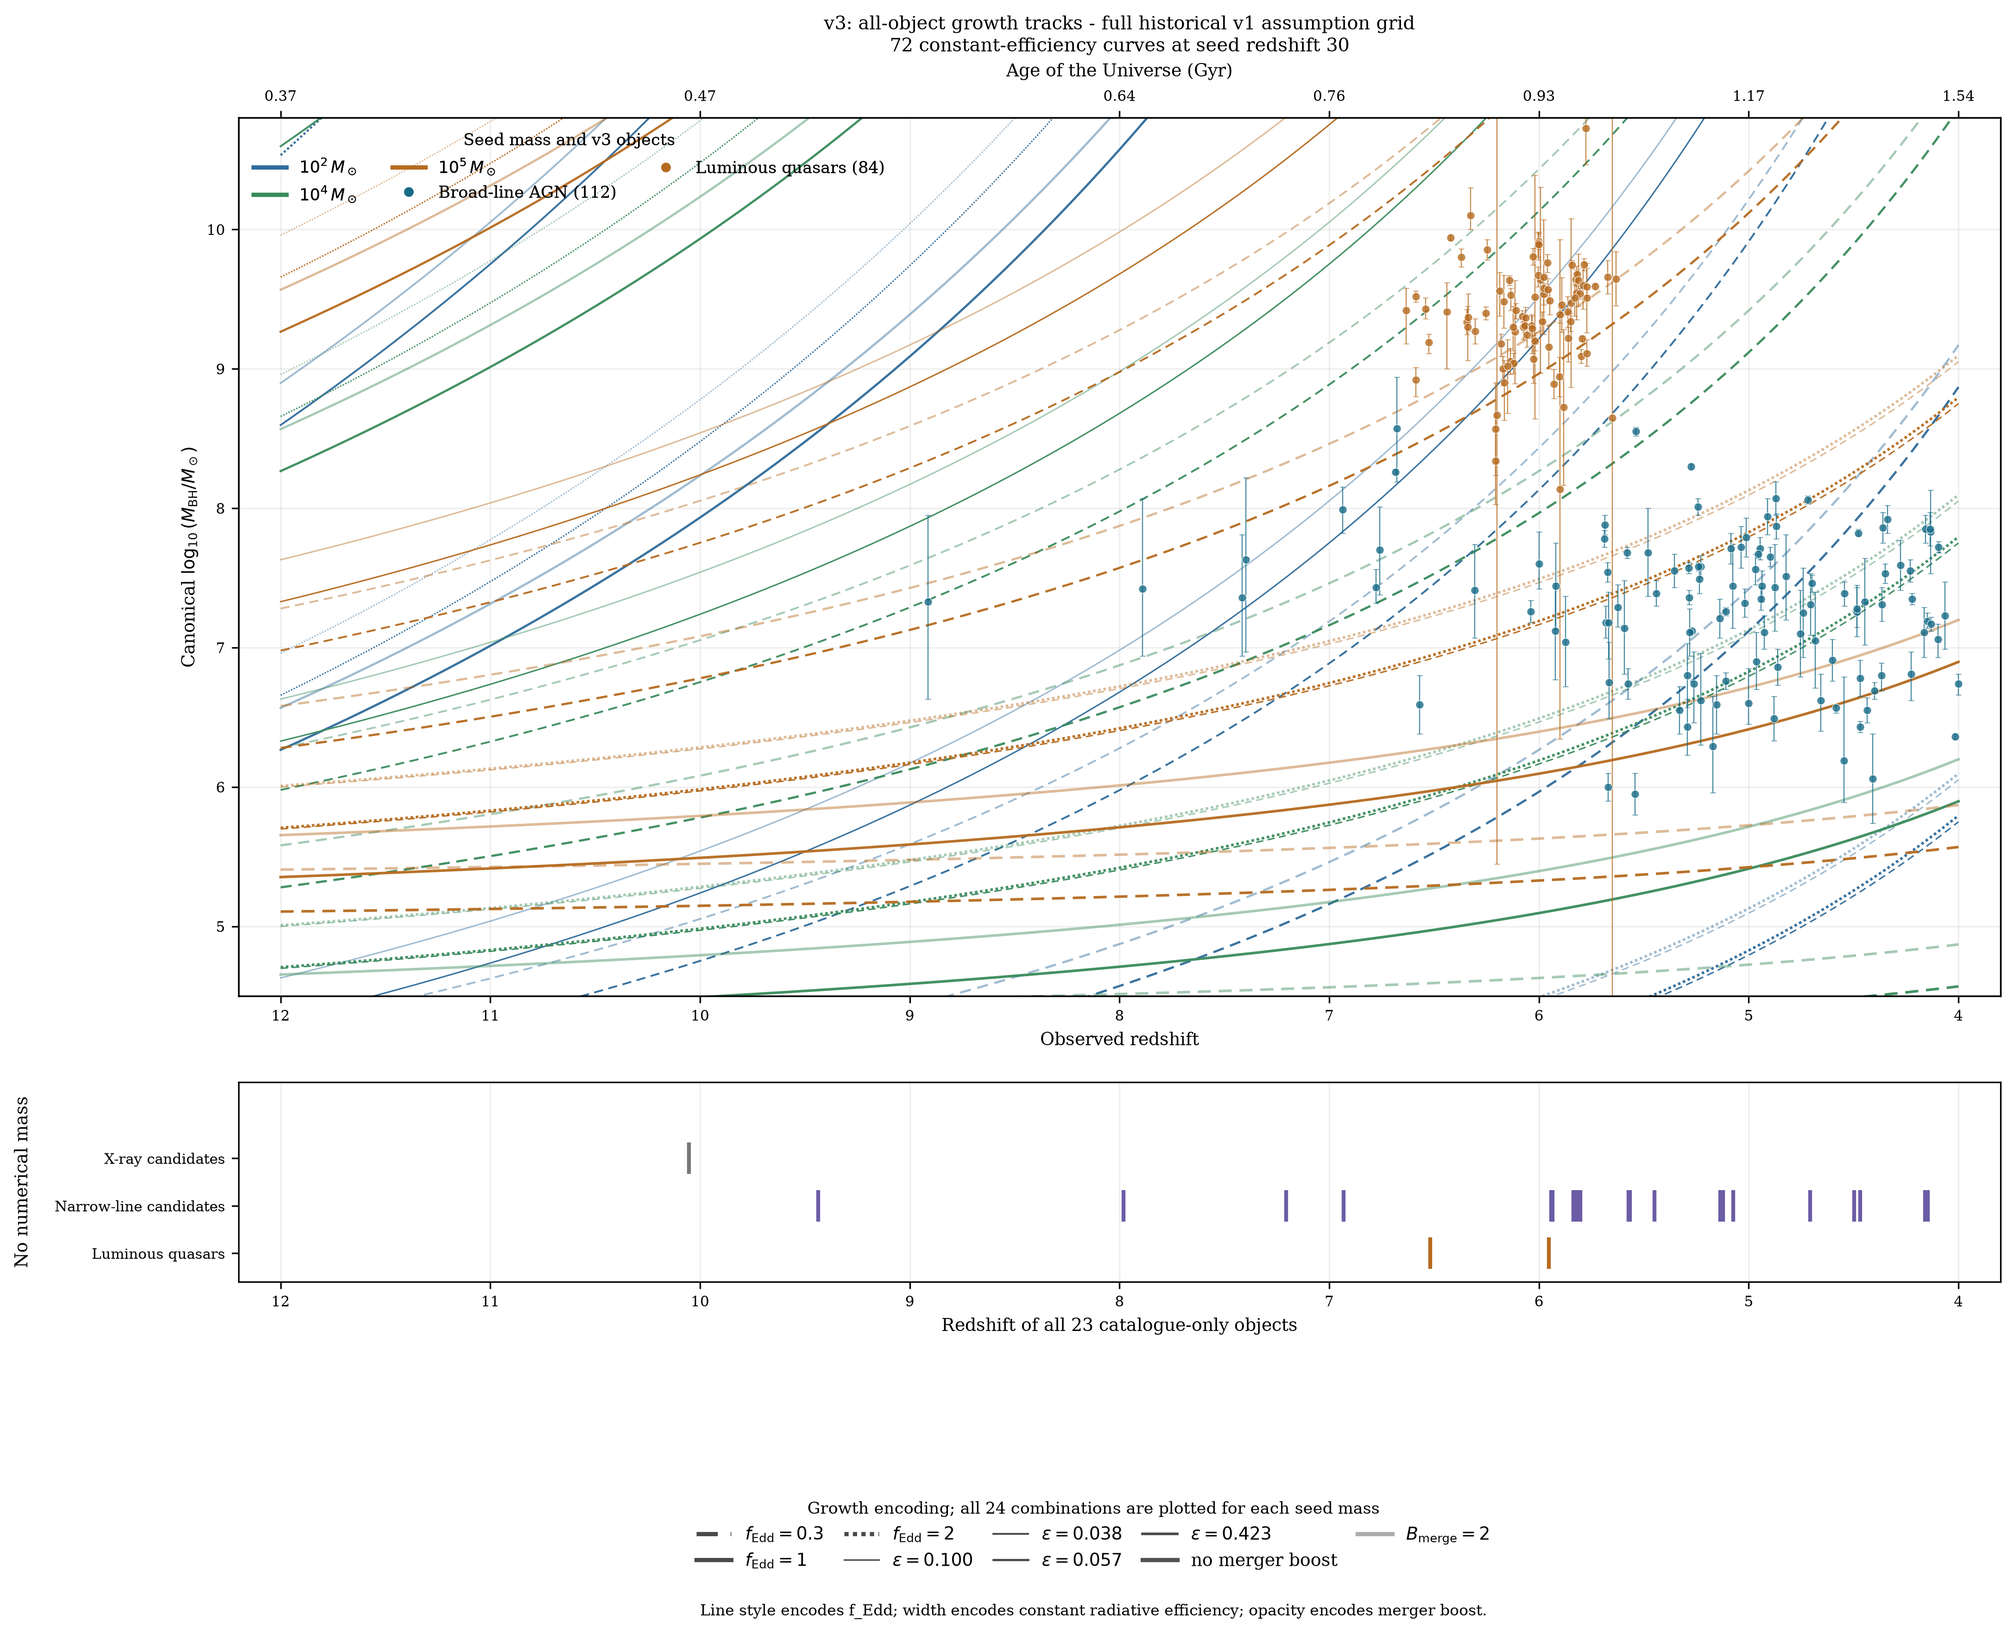
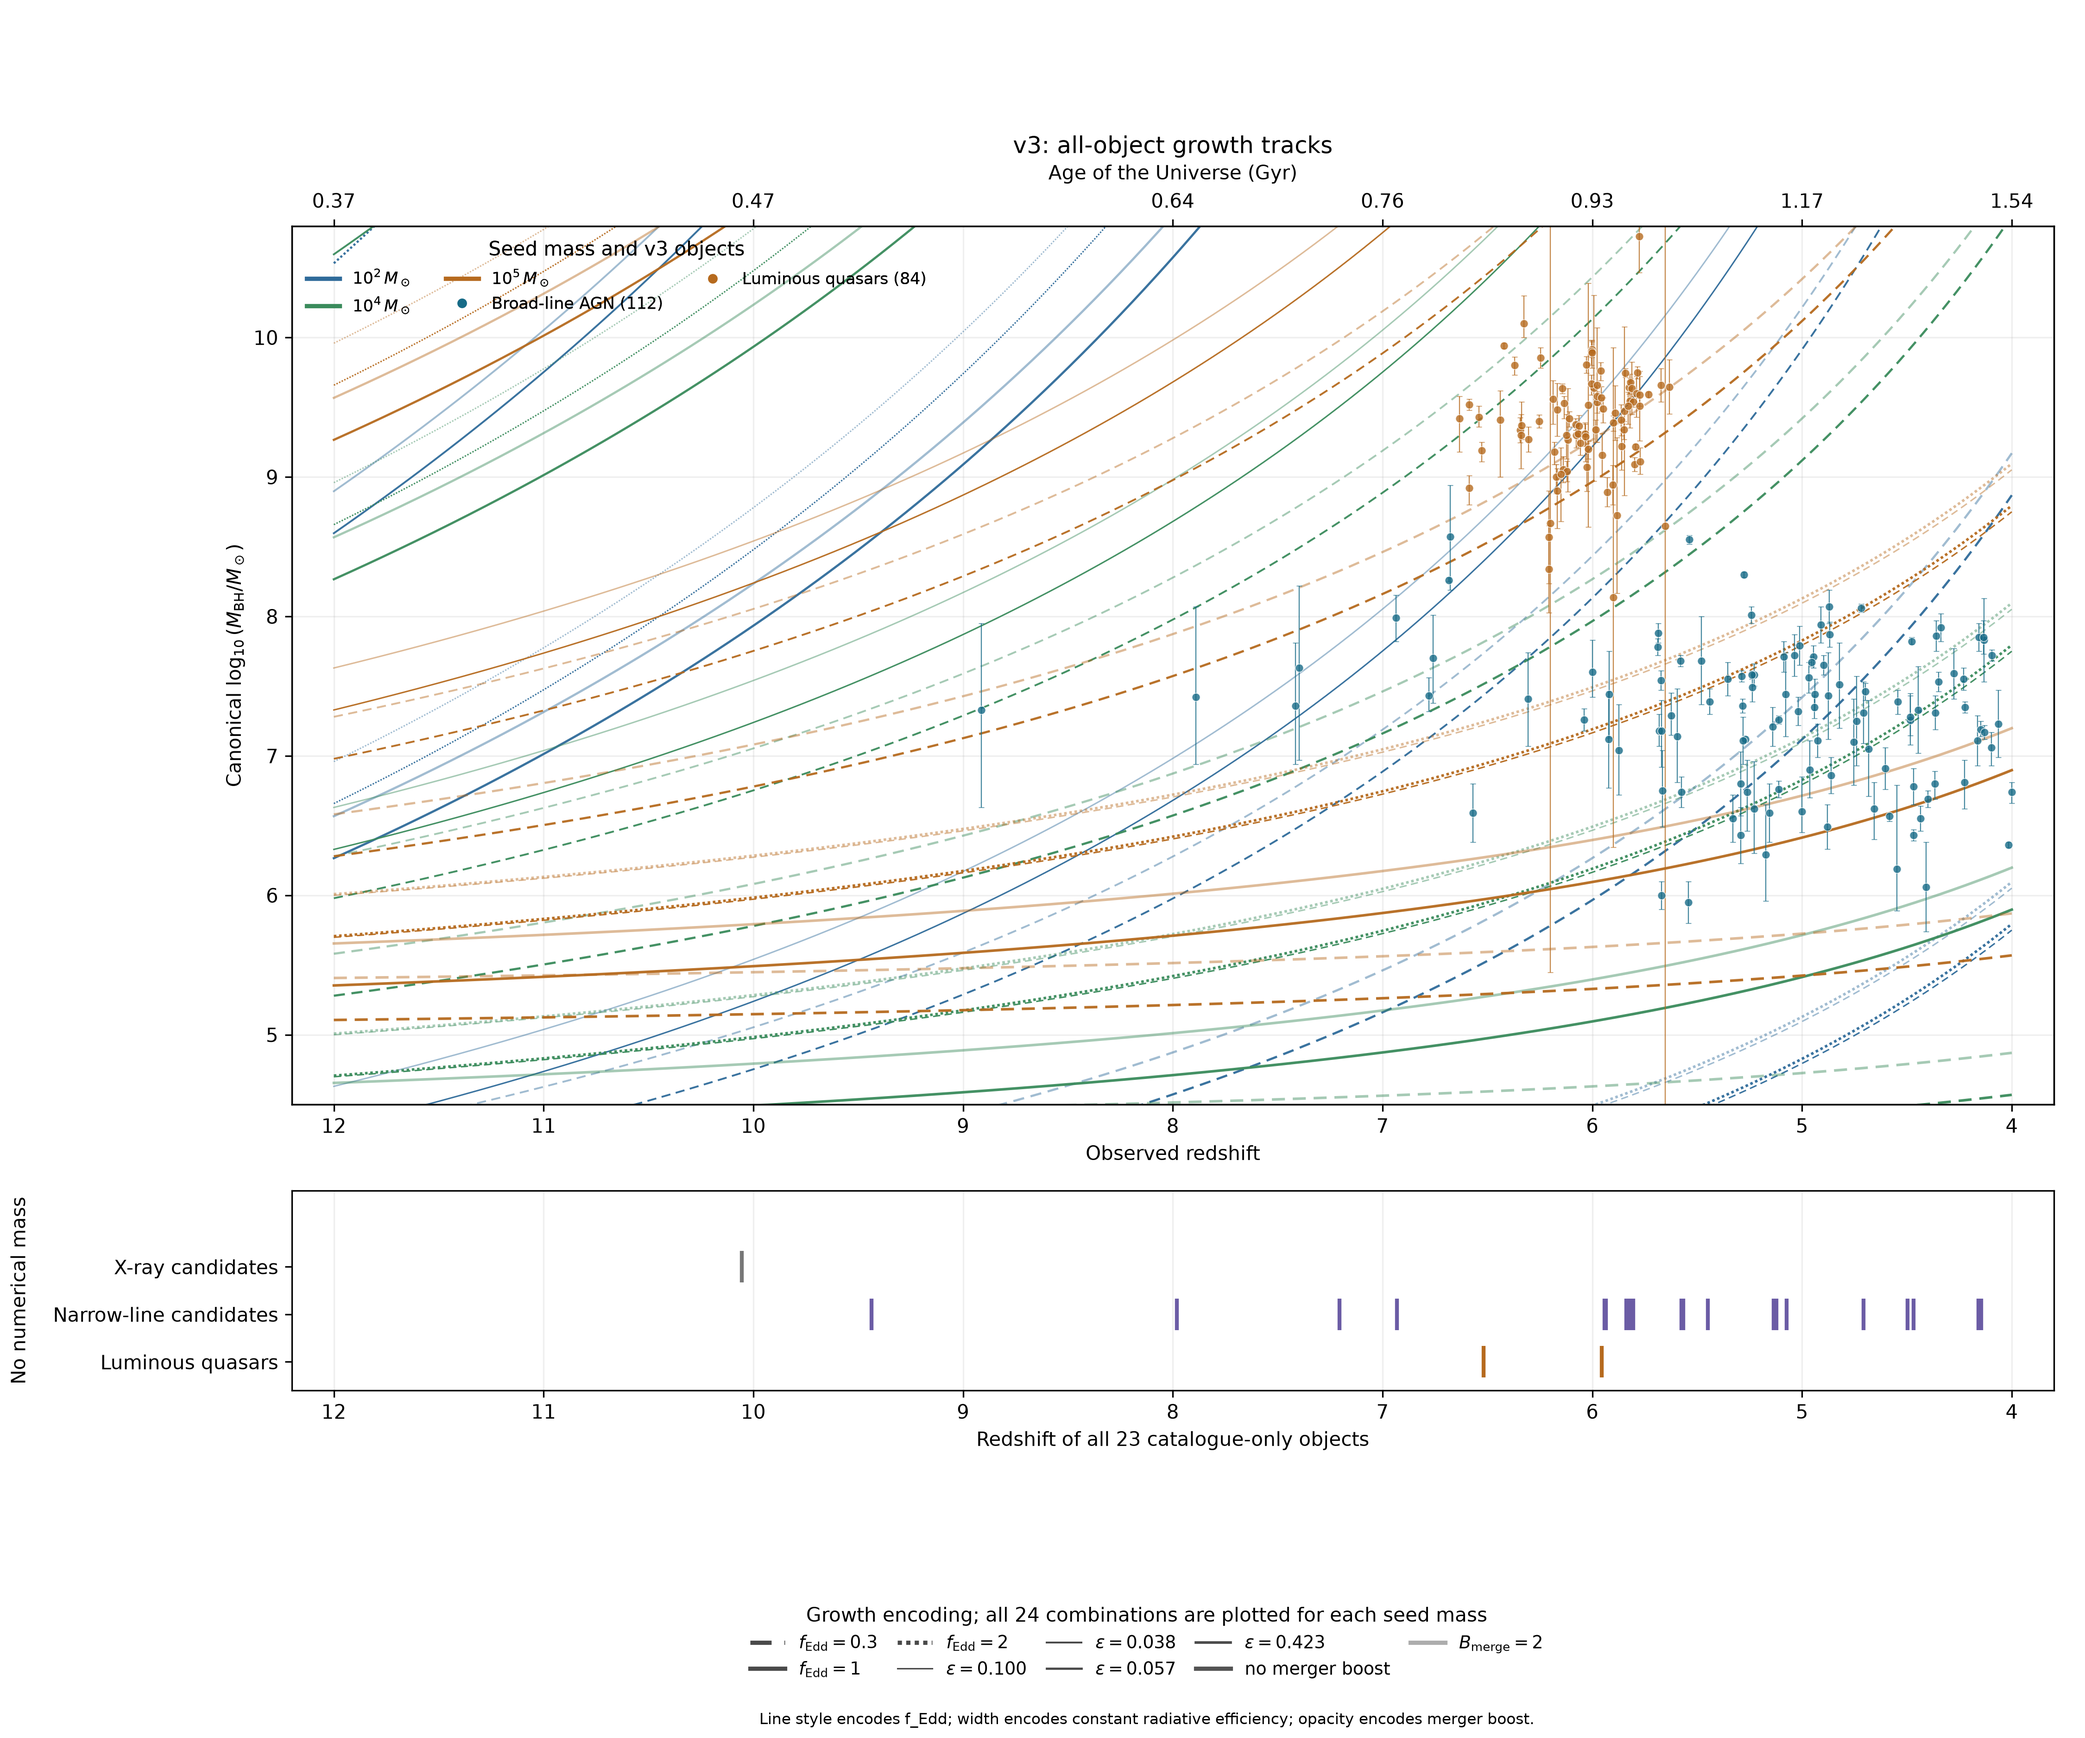
simplify v3 growth-track title

diff --git a/src/internal/atlas.py b/src/internal/atlas.py
@@ -271,8 +271,7 @@ def plot_full_assumption_growth_tracks(objects: pd.DataFrame, output: Path) -> N
     ax.set(
         xlim=(12.2, 3.8), ylim=(4.5, 10.8), xlabel="Observed redshift",
         ylabel=r"Canonical $\log_{10}(M_{\rm BH}/M_\odot)$",
-        title=(f"{VERSION}: all-object growth tracks - full historical v1 assumption grid\n"
-               f"{FULL_TRACK_CURVE_COUNT} constant-efficiency curves at seed redshift 30"),
+        title=f"{VERSION}: all-object growth tracks",
     )
     ax.grid(alpha=0.2)
 

diff --git a/docs/archive/project-history/CONTRIBUTION_LEDGER.md b/docs/archive/project-history/CONTRIBUTION_LEDGER.md
@@ -1513,3 +1513,21 @@ For every future Codex contribution that changes repository files:
   clipping, overlap, or illegible labels.
 - **Status:** Complete and verified locally; included in the accompanying
   repository commit.
+
+### 2026-09-02 - Simplify comprehensive growth-track title
+
+- **Objective:** Use the concise requested title for the comprehensive v3
+  all-object growth-track companion.
+- **Files changed:** Atlas generator, regenerated companion PNG, result
+  inventory, and v3 release manifest.
+- **Contribution:** Changed the displayed title to exactly
+  `v3: all-object growth tracks`. The full assumption grid remains documented
+  by the figure legend and repository documentation.
+- **Scientific/technical effect:** None. Curves, objects, uncertainties, axes,
+  and numerical products are unchanged.
+- **Validation:** Regenerated the 4500-by-3750 companion PNG, visually checked
+  the title and layout, and rebuilt the result inventory and v3 manifest. All
+  33 tests pass; provenance and all version, inventory, manifest, exact-CSV,
+  and dataset-growth checks pass.
+- **Status:** Complete and verified locally; included in the accompanying
+  repository commit.
